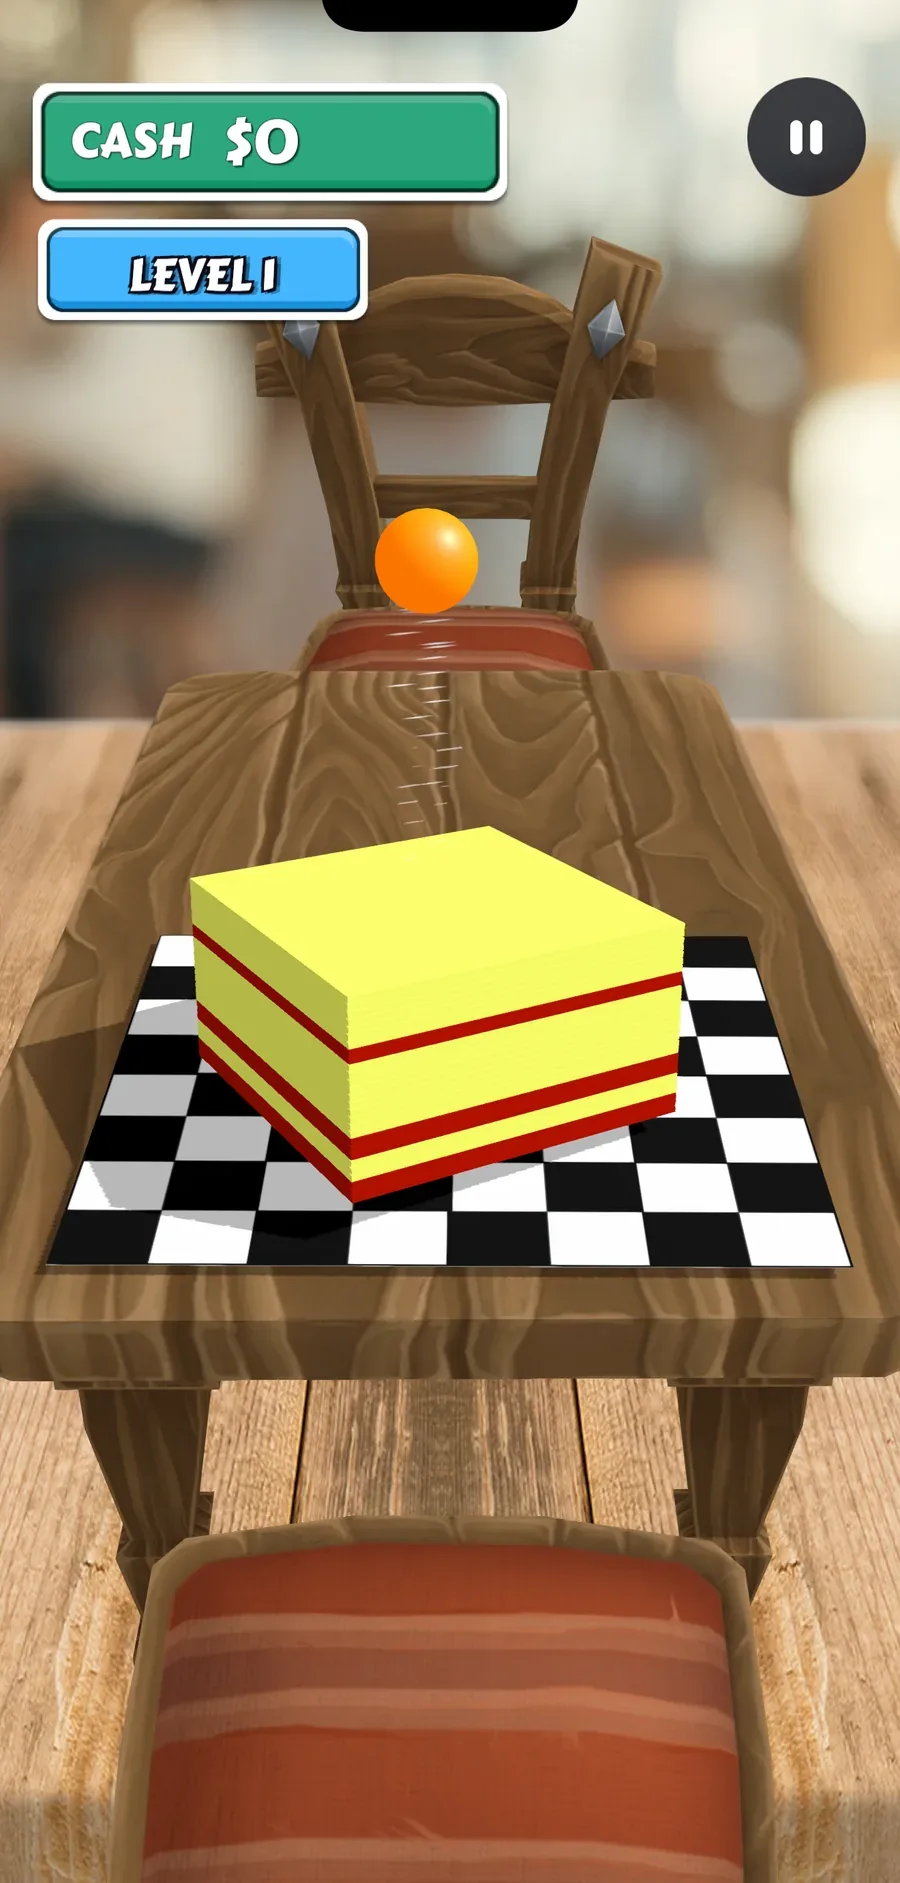
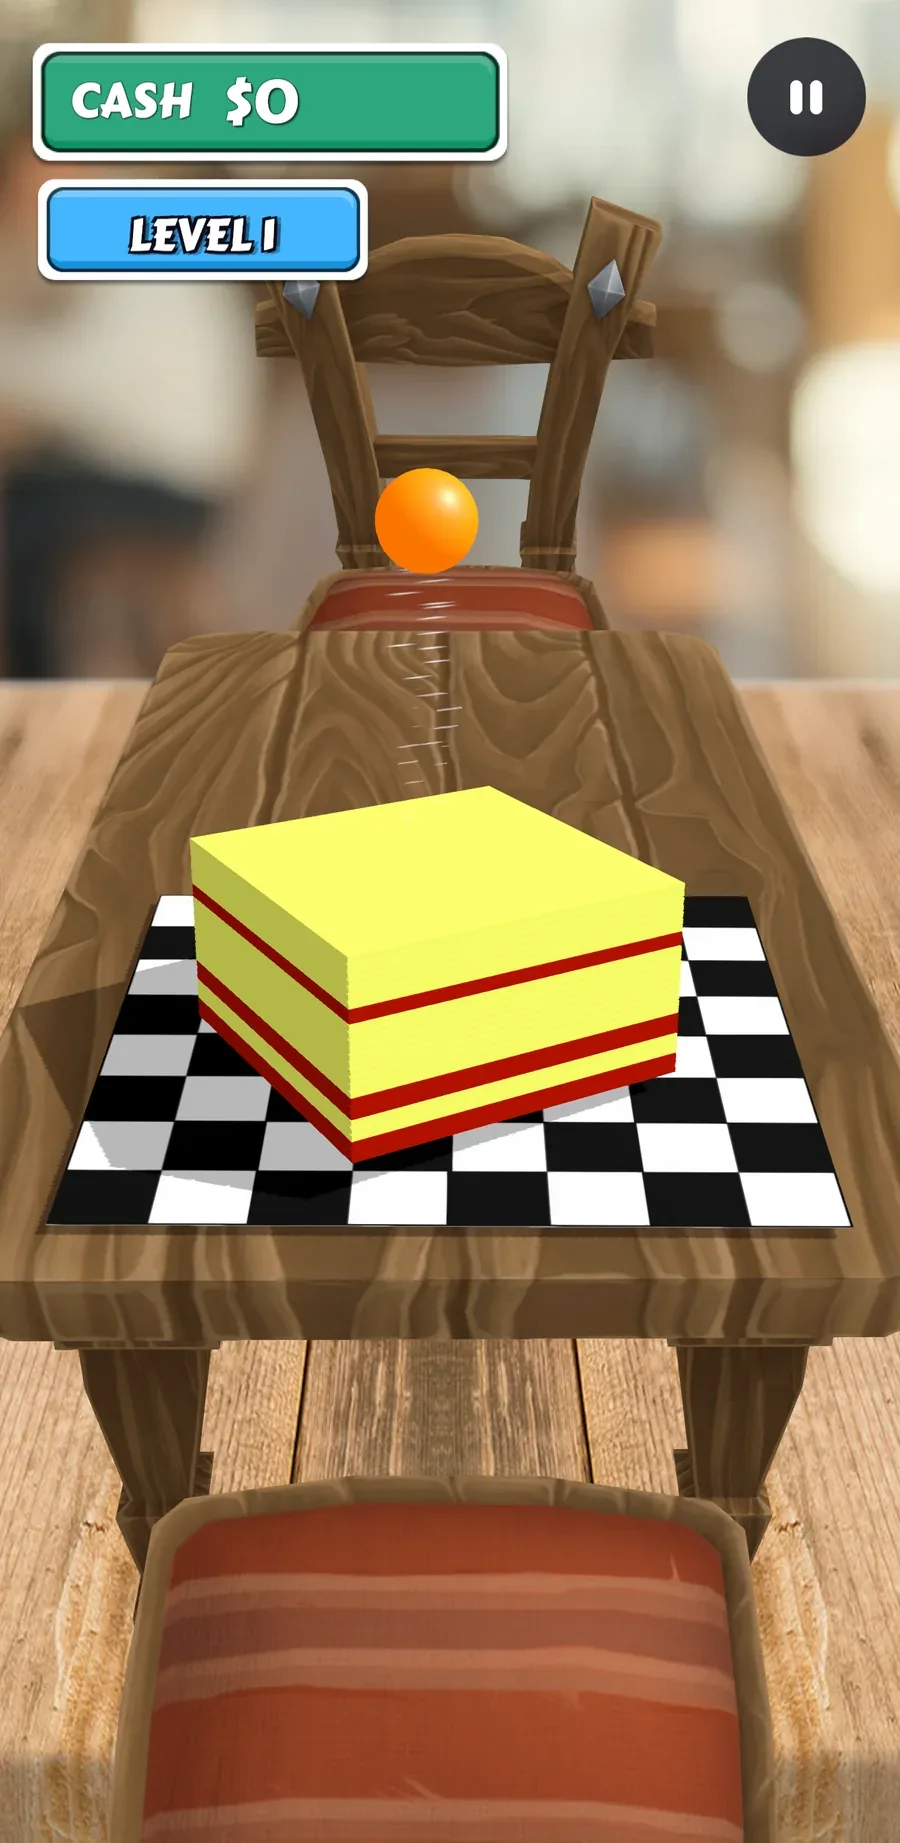
Crop the screenshots below the island for real (112px, not 72px)
Jonathan, on the live site: "the screenshots still have the dynamic
island as if it was an iPhone." He was right. The black pill occupies
rows 30-104 of every 900x1955 store shot; the first crop cut 72px and
left the pill's bottom third showing at the top of all three screen-*
files (measured: dark rows 0-28 of the cropped image). Re-cut at 112px,
which clears the pill with margin and still leaves ~35px above the
game's cash badge. Files are now 900x1843; the width/height attributes
on both pages, the frame comment in style.css and DESIGN-SPEC follow.
Verified: zero dark rows at the top of each new file, rendered aspect
equals natural aspect (0.4883) on both pages in WebKit, no overflow.

diff --git a/sliceball/index.html b/sliceball/index.html
@@ -131,7 +131,7 @@
         </div>
         <div class="feature-row__device">
           <div class="device device--phone">
-            <img class="device__screen" src="assets/showcase/screen-03-slicing.webp" alt="The slicing moment, right as the ball meets the stack" width="900" height="1883" loading="lazy" decoding="async">
+            <img class="device__screen" src="assets/showcase/screen-03-slicing.webp" alt="The slicing moment, right as the ball meets the stack" width="900" height="1843" loading="lazy" decoding="async">
           </div>
         </div>
       </article>
@@ -143,7 +143,7 @@
         </div>
         <div class="feature-row__device">
           <div class="device device--phone">
-            <img class="device__screen" src="assets/showcase/screen-02-gameplay.webp" alt="Gameplay: a ball dropping onto a card stack" width="900" height="1883" loading="lazy" decoding="async">
+            <img class="device__screen" src="assets/showcase/screen-02-gameplay.webp" alt="Gameplay: a ball dropping onto a card stack" width="900" height="1843" loading="lazy" decoding="async">
           </div>
         </div>
       </article>
@@ -155,7 +155,7 @@
         </div>
         <div class="feature-row__device">
           <div class="device device--phone">
-            <img class="device__screen" src="assets/showcase/screen-05-shop-balls.webp" alt="Choosing a new ball skin in the shop" width="900" height="1883" loading="lazy" decoding="async">
+            <img class="device__screen" src="assets/showcase/screen-05-shop-balls.webp" alt="Choosing a new ball skin in the shop" width="900" height="1843" loading="lazy" decoding="async">
           </div>
         </div>
       </article>

diff --git a/index.html b/index.html
@@ -70,7 +70,7 @@
           <article class="app-card">
           <div class="app-card__visual">
             <div class="device device--phone app-card__device">
-              <img class="device__screen" src="sliceball/assets/showcase/screen-03-slicing.webp" alt="Sliceball: the ball dropping onto a stack of cards, mid-slice" width="900" height="1883" decoding="async">
+              <img class="device__screen" src="sliceball/assets/showcase/screen-03-slicing.webp" alt="Sliceball: the ball dropping onto a stack of cards, mid-slice" width="900" height="1843" decoding="async">
             </div>
           </div>
           <div class="app-card__body">
@@ -132,7 +132,7 @@
         <article class="app-card">
           <div class="app-card__visual">
             <div class="device device--phone app-card__device">
-              <img class="device__screen" src="sliceball/assets/showcase/screen-03-slicing.webp" alt="Sliceball: the ball dropping onto a stack of cards, mid-slice" width="900" height="1883" decoding="async">
+              <img class="device__screen" src="sliceball/assets/showcase/screen-03-slicing.webp" alt="Sliceball: the ball dropping onto a stack of cards, mid-slice" width="900" height="1843" decoding="async">
             </div>
           </div>
           <div class="app-card__body">

diff --git a/style.css b/style.css
@@ -733,9 +733,9 @@ a.link-cta {
    on every <img>/<video> inside and nothing is ever cropped:
      phone gameplay clip  444 x 960   (assets/showcase/gameplay-iphone.*)
      tablet gameplay clip 720 x 960   (assets/showcase/gameplay-ipad.*)
-     screenshots          900 x 1883  (assets/showcase/screen-*.webp —
+     screenshots          900 x 1843  (assets/showcase/screen-*.webp —
                           the store shots with the island cropped off
-                          the top, 72px; the originals are untouched)
+                          the top, 112px -- the black pill spans rows 30-104 in every store shot, and an earlier 72px cut left its bottom third showing; the originals live in _to_delete/)
    Radii: phone bezel 3.2% / corner 17.6%; tablet bezel 3.6% / corner 6%
    (a real tablet's corners are much tighter than a phone's). The screen
    radius is corner minus bezel so the two curves stay concentric.

diff --git a/DESIGN-SPEC.md b/DESIGN-SPEC.md
@@ -454,7 +454,7 @@ for any future grid that has a fixed-px minmax floor.
     <!-- unreleased: a game-specific abstract visual, e.g. .sliceball-scene
          shipped:    <div class="device device--phone app-card__device">
                        <img class="device__screen" src="…/screen-03-slicing.webp"
-                            alt="…" width="900" height="1883" decoding="async">
+                            alt="…" width="900" height="1843" decoding="async">
                      </div> -->
   </div>
   <div class="app-card__body">
@@ -505,7 +505,7 @@ for any future grid that has a fixed-px minmax floor.
   — nothing crops, and nothing is sized by height (a height-based size
   is not definite for a flex child and fell back to the image's 900px
   natural width once already). **Use the island-free crops**
-  (`sliceball/assets/showcase/screen-*.webp`, 900x1883 — the store shots
+  (`sliceball/assets/showcase/screen-*.webp`, 900x1843 — the store shots
   with the iPhone island cropped off the top), never the raw
   `showcase-*.webp` store shots: the frame is deliberately generic (no
   island, notch, buttons or camera housing, per Apple's marketing
@@ -627,7 +627,7 @@ island"). Size ONLY via `--device-w` on a page-specific wrapper rule
 The screen's height comes from the media's own `width`/`height`
 attributes (`height: auto`), so every `<img>`/`<video>` inside MUST carry
 its real pixel size (phone clip 444×960, tablet clip 720×960,
-screenshots 900×1883) and nothing is ever cropped — verified 2026-09-13
+screenshots 900×1843) and nothing is ever cropped — verified 2026-09-13
 in WebKit and Chrome at 1280 and 375: every `.device__screen`'s rendered
 aspect equals its natural aspect, every `.device` is centred in its
 parent to the pixel, no horizontal overflow, overlap measures exactly
@@ -691,7 +691,7 @@ ships** (an `ffmpeg` contact sheet at 1–4fps) for Game Center
 "Signed in as <name>" toasts, notification banners, or a real name —
 this caught two separate exposures on this page (see "Current status").
 Screenshots are the `StoreAssets/` store shots resized to 900px wide,
-`.webp` quality 82, with the island cropped off the top (72px) as
+`.webp` quality 82, with the island cropped off the top (112px; the pill occupies rows 30-104, and a first pass at 72px left its bottom third visible, which Jonathan caught on the live site) as
 `screen-NN-name.webp`; never generate placeholder/fake screenshots.
 
 ## Ambient background glow (`.hero::before`)
